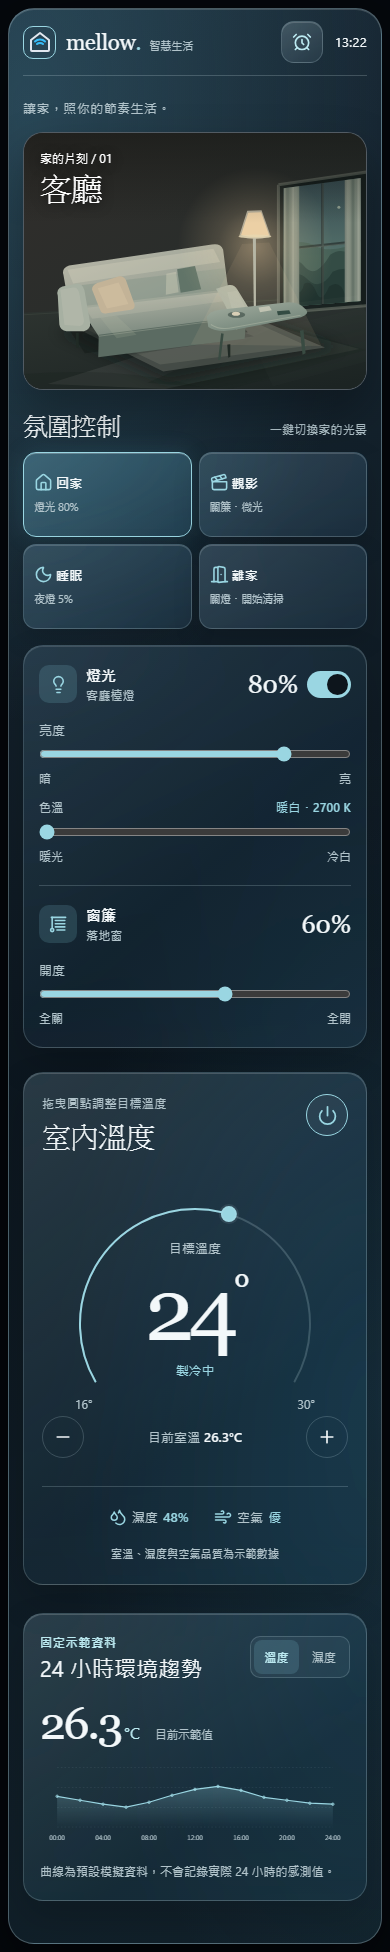
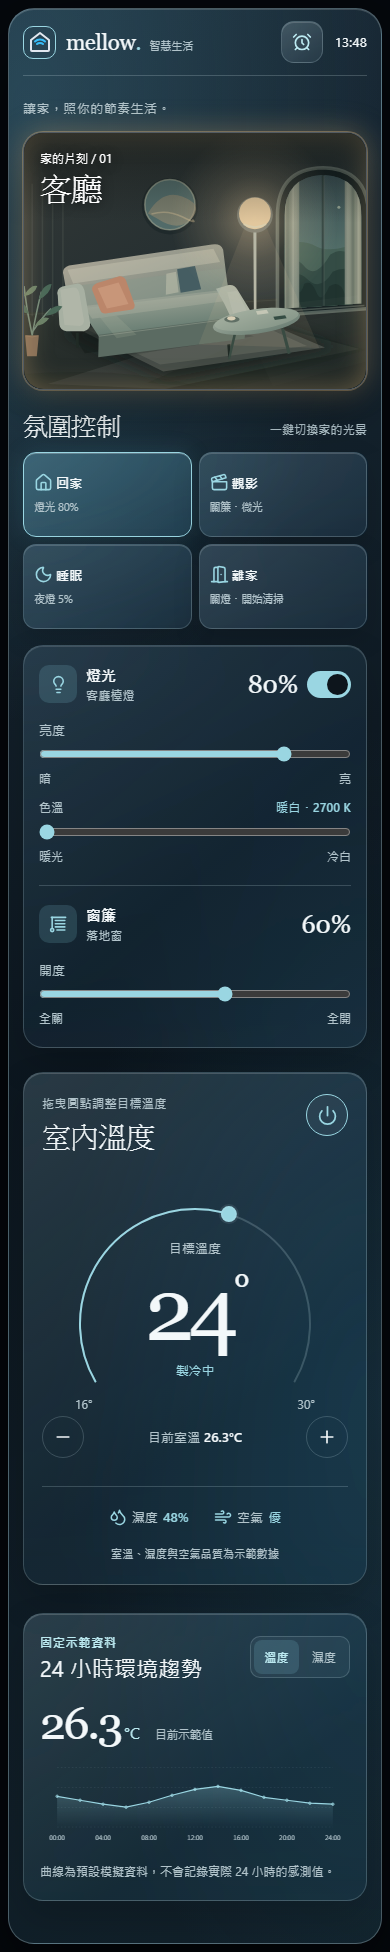
Give living room original details and synced frame lighting

Changed region(s): [[0.0308, 0.0625, 0.9538, 0.2188], [0.3692, 0.0625, 0.5231, 0.1562]]

diff --git a/src/components/LivingRoomScene.vue b/src/components/LivingRoomScene.vue
@@ -23,9 +23,9 @@ const lampColor = computed(() => {
     preserveAspectRatio="xMidYMid slice" aria-hidden="true" focusable="false">
     <defs>
       <linearGradient id="room-wall" x1="0" y1="0" x2="1" y2="1">
-        <stop offset="0" stop-color="#322e2b" />
-        <stop offset="0.52" stop-color="#292d2b" />
-        <stop offset="1" stop-color="#242c2b" />
+        <stop offset="0" stop-color="#353a38" />
+        <stop offset="0.52" stop-color="#252f31" />
+        <stop offset="1" stop-color="#1c292e" />
       </linearGradient>
       <linearGradient id="room-floor" x1="0" y1="0" x2="0.8" y2="1">
         <stop offset="0" stop-color="#303632" />
@@ -47,13 +47,13 @@ const lampColor = computed(() => {
         <path d="M3 0V12M12 0V12" stroke="#26312d" stroke-opacity=".15" stroke-width="2" />
       </pattern>
       <linearGradient id="sofa-back" x1="0" y1="0" x2="0.8" y2="1">
-        <stop offset="0" stop-color="#bbb9a9" />
-        <stop offset="0.65" stop-color="#9ca397" />
-        <stop offset="1" stop-color="#6f7b72" />
+        <stop offset="0" stop-color="#b3aa99" />
+        <stop offset="0.65" stop-color="#868f85" />
+        <stop offset="1" stop-color="#566d69" />
       </linearGradient>
       <linearGradient id="sofa-seat" x1="0" y1="0" x2="0.4" y2="1">
-        <stop offset="0" stop-color="#b7b9aa" />
-        <stop offset="1" stop-color="#79877d" />
+        <stop offset="0" stop-color="#a6ab9c" />
+        <stop offset="1" stop-color="#62796f" />
       </linearGradient>
       <linearGradient id="table-top" x1="0" y1="0" x2="0.7" y2="1">
         <stop offset="0" stop-color="#a5afa1" />
@@ -69,7 +69,7 @@ const lampColor = computed(() => {
         <stop offset="1" stop-color="#aabfaf" stop-opacity="0" />
       </linearGradient>
       <clipPath id="window-glass">
-        <path d="M573 108 724 88 724 328 573 340Z" />
+        <path d="M575 162Q575 85 650 82Q725 85 725 162V333L575 343Z" />
       </clipPath>
       <filter id="room-soft-shadow" x="-30%" y="-40%" width="160%" height="190%">
         <feGaussianBlur stdDeviation="13" />
@@ -82,24 +82,34 @@ const lampColor = computed(() => {
     <path d="M112 490 512 366 722 422 341 500Z" fill="#a6a799" opacity=".12" />
     <path d="M307 488 565 375 733 424 469 500Z" fill="#1a2420" opacity=".32" />
 
+    <g class="wall-details">
+      <path d="M82 99V358M102 96V358M122 94V358M142 92V358" stroke="#a7b09a" stroke-opacity=".12" stroke-width="3" />
+      <circle cx="351" cy="143" r="55" fill="#131f22" opacity=".42" />
+      <circle cx="351" cy="140" r="49" fill="#526b69" stroke="#a6ad98" stroke-opacity=".62" stroke-width="3" data-testid="wall-art" />
+      <path d="M308 157Q336 110 375 124T397 163Q371 197 326 167Z" fill="#9b8c71" opacity=".53" />
+      <path d="M315 158Q346 149 376 164T395 169" stroke="#d0bb91" stroke-opacity=".43" stroke-width="3" fill="none" />
+    </g>
+
     <g class="window-scene">
-      <path d="M563 101 737 76 737 337 563 351Z" fill="#151d1c" />
-      <path d="M573 108 724 88 724 328 573 340Z" fill="url(#night-sky)" />
+      <path d="M561 162Q561 70 650 68Q739 70 739 162V343L561 356Z" fill="#141f21" data-testid="arched-window" />
+      <path d="M575 162Q575 85 650 82Q725 85 725 162V333L575 343Z" fill="url(#night-sky)" />
       <g clip-path="url(#window-glass)">
+        <rect x="570" y="75" width="160" height="270" fill="url(#night-sky)" />
         <path d="M558 226Q600 203 636 221T735 205V350H558Z" fill="#435e54" opacity=".86" />
         <path d="M558 273Q591 232 613 260T664 238Q690 219 714 248L743 223V353H558Z" fill="#344c45" />
         <path d="M557 302Q593 259 619 285T669 271Q699 256 739 281V354H557Z" fill="#273d38" />
         <path d="M567 330Q580 302 594 310T613 295Q627 286 637 311T662 300Q683 285 693 316T730 297V356H567Z" fill="#20332f" />
         <circle cx="681" cy="145" r="3" fill="#d1d8bd" opacity=".55" />
         <circle cx="701" cy="179" r="1.4" fill="#d9d9c2" opacity=".38" />
-        <path d="M649 91V342M565 228 735 210" stroke="#232b29" stroke-opacity=".68" stroke-width="5" />
-        <path d="M650 94V340M566 230 734 212" stroke="#b2baaa" stroke-opacity=".22" stroke-width="2" />
-        <rect x="565" y="84" :width="panelWidth" height="265" fill="url(#curtain-fabric)" data-testid="curtain-panel-left" />
-        <rect x="565" y="84" :width="panelWidth" height="265" fill="url(#curtain-folds)" opacity=".7" />
-        <rect :x="rightPanelX" y="84" :width="panelWidth" height="265" fill="url(#curtain-fabric)" data-testid="curtain-panel-right" />
-        <rect :x="rightPanelX" y="84" :width="panelWidth" height="265" fill="url(#curtain-folds)" opacity=".7" />
+        <path d="M650 82V340" stroke="#243433" stroke-opacity=".7" stroke-width="5" />
+        <path d="M652 84V339" stroke="#b2baaa" stroke-opacity=".19" stroke-width="2" />
+        <rect x="565" y="65" :width="panelWidth" height="284" fill="url(#curtain-fabric)" data-testid="curtain-panel-left" />
+        <rect x="565" y="65" :width="panelWidth" height="284" fill="url(#curtain-folds)" opacity=".7" />
+        <rect :x="rightPanelX" y="65" :width="panelWidth" height="284" fill="url(#curtain-fabric)" data-testid="curtain-panel-right" />
+        <rect :x="rightPanelX" y="65" :width="panelWidth" height="284" fill="url(#curtain-folds)" opacity=".7" />
       </g>
-      <path d="M563 101 737 76M563 351 737 337M563 101V351M737 76V337" stroke="#8d9487" stroke-opacity=".43" stroke-width="6" fill="none" />
+      <path d="M561 162Q561 70 650 68Q739 70 739 162V343L561 356Z" stroke="#a9b9aa" stroke-opacity=".4" stroke-width="7" fill="none" />
+      <path d="M572 348 731 337" stroke="#b7c2af" stroke-opacity=".28" stroke-width="3" />
     </g>
 
     <g data-testid="moonlight-spill" :style="{ opacity: moonlight }">
@@ -126,33 +136,40 @@ const lampColor = computed(() => {
       <path d="M441 304 466 297Q477 295 483 306L510 350Q518 365 505 373L481 384 458 335Z" fill="#a7b1a4" />
       <path d="M463 311 482 308 503 351Q509 360 499 365L480 373Z" fill="#c1c8b8" opacity=".3" />
       <path d="M167 390 173 390 173 419 168 420ZM463 413 469 412 469 437 465 439Z" fill="#202a25" />
-      <path d="M209 293 252 280Q260 279 265 287L282 335Q283 344 275 345L228 352Q218 354 215 346L199 306Q198 298 209 293Z" fill="#c3b397" />
-      <path d="M210 303 251 292 270 334 228 343Z" fill="#e0cbaa" opacity=".34" />
-      <path d="M365 266 400 260 412 305 372 312Z" fill="#617468" />
+      <path d="M209 293 252 280Q260 279 265 287L282 335Q283 344 275 345L228 352Q218 354 215 346L199 306Q198 298 209 293Z" fill="#bb866a" />
+      <path d="M210 303 251 292 270 334 228 343Z" fill="#e2b797" opacity=".34" />
+      <path d="M365 266 400 260 412 305 372 312Z" fill="#455d62" />
       <path d="M344 275 363 271 368 311 343 316Z" fill="#d4d2bc" opacity=".4" />
       <path d="M214 360 247 357 286 394 247 401Z" fill="#b8bba8" opacity=".17" />
     </g>
 
     <g data-testid="lamp-lit-room" :style="{ opacity: lampPower }">
-      <ellipse cx="518" cy="222" rx="153" ry="156" fill="url(#lamp-halo)" />
-      <path d="M492 217 545 214 647 416 392 413Z" :fill="lampColor" opacity=".11" />
+      <ellipse cx="516" cy="166" rx="167" ry="172" fill="url(#lamp-halo)" />
+      <path d="M498 181 538 181 643 420 407 413Z" :fill="lampColor" opacity=".11" />
     </g>
     <g class="floor-lamp">
-      <path d="M513 205 519 202 519 354 515 355Z" fill="#b6b6a5" />
-      <ellipse cx="519" cy="358" rx="28" ry="7" fill="#36453d" />
-      <path d="M486 202 502 152 530 151 548 202Q519 211 486 202Z" fill="#b5ad98" />
-      <path d="M490 199 504 156 529 155 545 200Q519 207 490 199Z" :fill="lampColor" :opacity="0.19 + lampPower * 0.72" />
-      <ellipse cx="517" cy="202" rx="32" ry="4" fill="#e6d8b3" :opacity="0.22 + lampPower * 0.64" />
+      <path d="M514 194 520 194 520 354 515 355Z" fill="#b6b6a5" />
+      <ellipse cx="519" cy="358" rx="26" ry="6" fill="#36453d" />
+      <circle cx="517" cy="160" r="35" fill="#9c9b8d" opacity=".56" />
+      <circle cx="517" cy="157" r="31" :fill="lampColor" :opacity="0.22 + lampPower * 0.68" />
+      <path d="M495 178Q517 190 539 178" stroke="#d7d2b5" stroke-opacity=".64" stroke-width="4" fill="none" />
     </g>
 
     <g class="coffee-table">
-      <path d="M451 391 456 392 450 442 445 444ZM605 386 612 385 616 430 610 433Z" fill="#394b42" />
-      <path d="M423 359Q428 348 449 345L578 331Q603 329 617 345Q624 353 607 360L475 385Q443 390 426 379Z" fill="url(#table-top)" />
-      <path d="M431 374Q449 386 475 380L606 356" stroke="#d2d5bd" stroke-opacity=".31" stroke-width="2" fill="none" />
-      <ellipse cx="481" cy="355" rx="17" ry="6" fill="#34443c" opacity=".56" />
-      <ellipse cx="480" cy="353" rx="8" ry="4" fill="#d8cfb6" />
-      <path d="M524 341 545 338 550 346 527 350Z" fill="#d4d3c1" opacity=".72" />
-      <path d="M560 348 584 346 587 353 562 356Z" fill="#344c43" />
+      <path d="M476 389 481 390 469 441 464 443ZM568 382 574 382 587 430 581 432Z" fill="#394b42" />
+      <ellipse cx="520" cy="368" rx="86" ry="24" transform="rotate(-8 520 368)" fill="url(#table-top)" />
+      <ellipse cx="520" cy="364" rx="83" ry="20" transform="rotate(-8 520 364)" fill="#a7b4a3" opacity=".4" />
+      <ellipse cx="472" cy="364" rx="15" ry="6" fill="#34443c" opacity=".56" />
+      <ellipse cx="471" cy="362" rx="8" ry="4" fill="#d8cfb6" />
+      <path d="M519 348 540 345 544 352 522 355Z" fill="#d4d3c1" opacity=".72" />
+      <path d="M553 359 576 356 579 362 556 365Z" fill="#344c43" />
+    </g>
+    <g class="plant-scene">
+      <path d="M68 395 95 395 91 436 72 436Z" fill="#846c56" />
+      <path d="M70 396Q82 401 94 396" stroke="#b89a77" stroke-opacity=".5" fill="none" />
+      <path d="M82 395Q71 346 66 299M82 395Q91 345 100 310M83 388Q104 356 119 343" stroke="#738979" stroke-width="3" fill="none" />
+      <path d="M66 299Q43 295 46 274Q66 278 66 299ZM75 353Q48 347 48 328Q71 330 75 353ZM95 325Q101 296 120 295Q117 316 95 325ZM108 357Q123 332 141 339Q132 355 108 357Z" fill="#496858" />
+      <path d="M65 319Q79 295 92 299Q87 316 65 319ZM87 377Q99 355 115 362Q106 376 87 377Z" fill="#6a8168" />
     </g>
     <path d="M0 478Q238 447 426 500H0Z" fill="#131d1a" opacity=".2" />
   </svg>

diff --git a/tests/dashboard.spec.ts b/tests/dashboard.spec.ts
@@ -19,6 +19,8 @@ test("首頁與鬧鐘操作沒有瀏覽器執行錯誤", async ({ page }) => {
   await page.reload();
   await expect(page.getByTestId("living-room-scene")).toBeVisible();
   await expect(page.getByTestId("curtain-panel-left")).toHaveCount(1);
+  await expect(page.getByTestId("arched-window")).toHaveCount(1);
+  await expect(page.getByTestId("wall-art")).toHaveCount(1);
   await page.getByRole("button", { name: "開啟鬧鐘與排程" }).click();
   await page.getByRole("button", { name: /早安排程時間 07:00/ }).click();
   await page.getByRole("button", { name: "取消" }).click();
@@ -96,6 +98,7 @@ test("燈光與窗簾滑桿會改變場景並保存", async ({ page }) => {
   await page.keyboard.press("Home");
   await expect(page.locator("#living-brightness")).toHaveValue("0");
   await expect(page.getByTestId("lamp-lit-room")).toHaveCSS("opacity", "0");
+  await expect(page.locator(".room-stage")).toHaveCSS("--stage-glow", "rgba(241, 196, 130, 0.000)");
   await page.locator("#living-color-temp").focus();
   await page.keyboard.press("End");
   await expect(page.locator("#living-color-temp")).toHaveValue("6500");
@@ -107,6 +110,7 @@ test("燈光與窗簾滑桿會改變場景並保存", async ({ page }) => {
   await page.locator("#living-brightness").focus();
   await page.keyboard.press("End");
   await expect(page.getByTestId("lamp-lit-room")).toHaveCSS("opacity", "1");
+  await expect(page.locator(".room-stage")).toHaveCSS("--stage-glow", "rgba(172, 222, 213, 0.440)");
   await page.locator(".room-stage").screenshot({ path: "output/playwright/room-closed-lit-390.png" });
   await page.locator("#living-curtain-position").focus();
   await page.keyboard.press("End");

diff --git a/src/components/LivingRoomExperience.vue b/src/components/LivingRoomExperience.vue
@@ -15,6 +15,13 @@ const store = useHomeStore();
 const lamp = computed(() => store.state.lamp);
 const curtainPosition = computed(() => store.state.curtain.position);
 const brightness = computed(() => (lamp.value.on ? lamp.value.brightness : 0));
+const frameGlow = computed(() => {
+  const cool = (lamp.value.colorTemp - 2700) / 3800;
+  const red = Math.round(241 - 69 * cool);
+  const green = Math.round(196 + 26 * cool);
+  const blue = Math.round(130 + 83 * cool);
+  return `rgba(${red}, ${green}, ${blue}, ${(brightness.value / 100 * 0.44).toFixed(3)})`;
+});
 const sceneIcons = {
   home: House,
   movie: Clapperboard,
@@ -36,7 +43,7 @@ const sceneLabel = computed(
 
 <template>
   <section class="living-experience" aria-labelledby="living-title">
-    <div class="room-stage">
+    <div class="room-stage" :style="{ '--stage-glow': frameGlow }">
       <div class="stage-heading">
         <div>
           <span>家的片刻 / 01</span>

diff --git a/src/styles/_living-room.scss b/src/styles/_living-room.scss
@@ -2,13 +2,25 @@
   min-width: 0;
 }
 .room-stage {
+  --stage-glow: rgba(241, 196, 130, 0);
   position: relative;
   aspect-ratio: 4 / 3;
   overflow: hidden;
   border-radius: 20px;
   background: #171b20;
   border: 1px solid rgba(220, 243, 255, 0.3);
-  box-shadow: 0 22px 48px rgba(0, 0, 0, 0.29), inset 0 1px rgba(255, 255, 255, 0.14);
+  box-shadow: 0 22px 48px rgba(0, 0, 0, 0.29), 0 0 0 1px var(--stage-glow), 0 0 30px var(--stage-glow), inset 0 1px rgba(255, 255, 255, 0.14);
+  transition: box-shadow 280ms ease;
+}
+.room-stage::before {
+  content: "";
+  position: absolute;
+  z-index: 1;
+  inset: 0;
+  border-radius: inherit;
+  box-shadow: inset 0 0 28px var(--stage-glow);
+  pointer-events: none;
+  transition: box-shadow 280ms ease;
 }
 .scene-photo-frame,
 .living-room-illustration {

diff --git a/README.md b/README.md
@@ -36,7 +36,7 @@ npm run dev
 
 ### 客廳與裝置
 
-- **燈光**：使用開關控制檯燈；拖曳亮度滑桿可調整室內照明，色溫滑桿可在暖白與冷白間調整。客廳插畫的光線會跟著變化。
+- **燈光**：使用開關控制檯燈；拖曳亮度滑桿可調整室內照明，色溫滑桿可在暖白與冷白間調整。客廳插畫的光線與畫框氛圍光會一起變化，關燈時畫框柔光也會熄滅。
 - **窗簾**：拖曳開度滑桿，右側窗戶的布簾會從中央向左右拉開。打開時有柔和月光進入客廳，檯燈關閉時仍可看清附近家具。
 - **室內溫度**：拖曳圓形控制器、使用加減按鈕或鍵盤調整目標溫度，範圍為 16–30°C。畫面另外顯示模擬的目前室溫、濕度與空氣品質。
 - **環境趨勢**：可切換查看預設的 24 小時溫度或濕度曲線。
